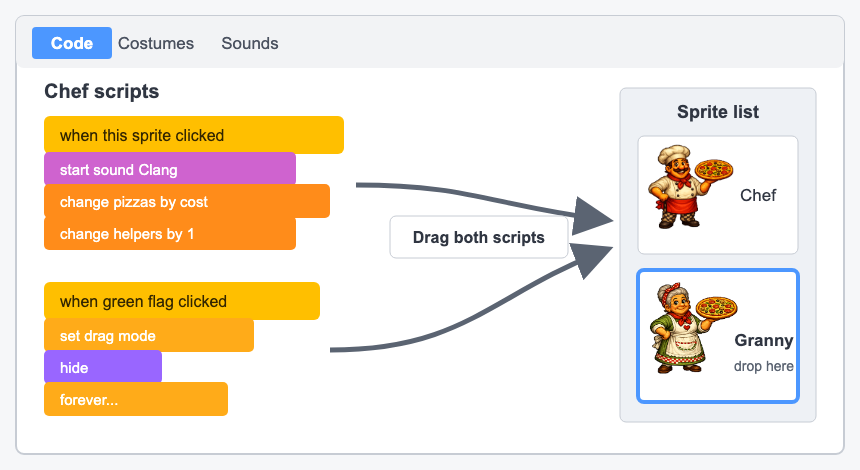
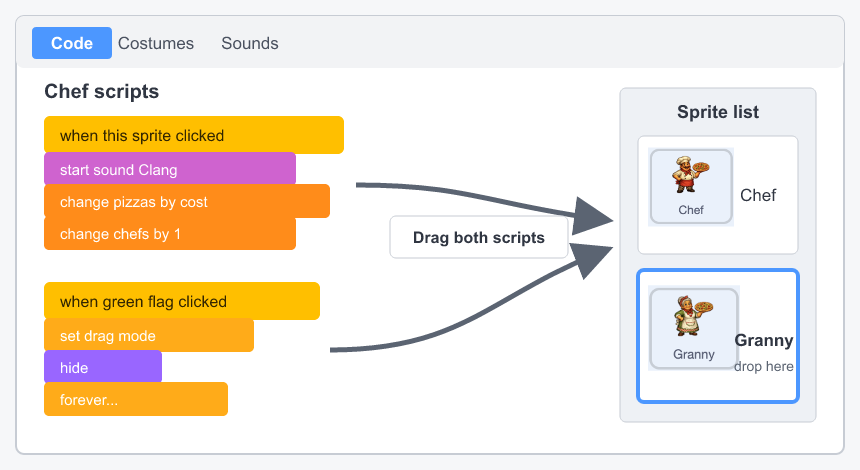
Align chef variables and slow equipment animation

diff --git a/en/step_17.md b/en/step_17.md
@@ -10,16 +10,16 @@ Let the player click the helper to hire one.
 
 Clicking the helper first checks the player can still afford it, then spends its current price and increases the number hired.
 
-The `change`{:class="block3variables"} block needs a negative number to spend pizzas. `0 - helper price` turns the price into that negative number.
+The `change`{:class="block3variables"} block needs a negative number to spend pizzas. `0 - chef price` turns the price into that negative number.
 
 The affordability check also stops rapid repeat clicks from pushing the score below zero while the sprite is waiting to hide.
 
 ```blocks3
 when this sprite clicked
-if <(pizzas) > ((helper price) - (1))> then
+if <(pizzas) > ((chef price) - (1))> then
 start sound (Clang v)
-change [pizzas v] by ((0) - (helper price))
-change [helpers v] by (1)
+change [pizzas v] by ((0) - (chef price))
+change [chefs v] by (1)
 end
 ```
 
@@ -29,11 +29,11 @@ Make the next helper cost about 15% more. `round`{:class="block3operators"} keep
 
 ```blocks3
 when this sprite clicked
-if <(pizzas) > ((helper price) - (1))> then
+if <(pizzas) > ((chef price) - (1))> then
 start sound (Clang v)
-change [pizzas v] by ((0) - (helper price))
-change [helpers v] by (1)
-+set [helper price v] to (round ((helper price) * (1.15)))
+change [pizzas v] by ((0) - (chef price))
+change [chefs v] by (1)
++set [chef price v] to (round ((chef price) * (1.15)))
 end
 ```
 
@@ -43,4 +43,4 @@ A **progression curve** controls how quickly a game gets harder, faster, or more
 
 ## Now run your code
 
-The first helper costs 50 pizzas. After buying it, `helpers`{:class="block3variables"} is `1` and `helper price`{:class="block3variables"} is `58`.
+The first helper costs 50 pizzas. After buying it, `chefs`{:class="block3variables"} is `1` and `chef price`{:class="block3variables"} is `58`.

diff --git a/en/step_16.md b/en/step_16.md
@@ -1,6 +1,6 @@
-## Make the helper variables
+## Make the chef variables
 
-The helper needs a few numbers to keep track of.
+The chef is your first type of helper. Give it its own count and price variables.
 
 <h2 class="c-project-heading--explainer">What you need to do</h2>
 
@@ -8,15 +8,15 @@ The helper needs a few numbers to keep track of.
 
 ## Step 1
 
-Make a variable called `helpers`{:class="block3variables"} for how many helpers the player has hired.
+Make a variable called `chefs`{:class="block3variables"} for how many chefs the player has hired.
 
-Make another called `helper price`{:class="block3variables"} for how many pizzas the next helper costs.
+Make another called `chef price`{:class="block3variables"} for how many pizzas the next chef costs.
 
 ## Step 2
 
 Make a variable called `pizzas per second`{:class="block3variables"} for how many pizzas all the helpers make during each second.
 
-Tick `helpers`{:class="block3variables"} and `pizzas per second`{:class="block3variables"} so the player can see them.
+Tick `chefs`{:class="block3variables"} and `pizzas per second`{:class="block3variables"} so the player can see them.
 
 ## Step 3
 
@@ -26,11 +26,11 @@ Click the `Stage`{:class="block3looks"} and give the variables starting values. 
 when green flag clicked
 set [pizzas v] to (0)
 set [pizzas per click v] to (1)
-+set [helpers v] to (0)
-+set [helper price v] to (50)
++set [chefs v] to (0)
++set [chef price v] to (50)
 +set [pizzas per second v] to (0)
 ```
 
 ## Now run your code
 
-Click the green flag. The new readouts show `helpers 0`, `helper price 50`, and `pizzas per second 0`.
+Click the green flag. The new readouts show `chefs 0`, `chef price 50`, and `pizzas per second 0`.

diff --git a/en/step_20.md b/en/step_20.md
@@ -10,11 +10,11 @@ Return to the helper sprite. Broadcast `update`{:class="block3events"} at the en
 
 ```blocks3
 when this sprite clicked
-if <(pizzas) > ((helper price) - (1))> then
+if <(pizzas) > ((chef price) - (1))> then
 start sound (Clang v)
-change [pizzas v] by ((0) - (helper price))
-change [helpers v] by (1)
-set [helper price v] to (round ((helper price) * (1.15)))
+change [pizzas v] by ((0) - (chef price))
+change [chefs v] by (1)
+set [chef price v] to (round ((chef price) * (1.15)))
 +broadcast (update v)
 end
 ```
@@ -27,8 +27,8 @@ On the `Stage`{:class="block3looks"}, replace the fixed `pizzas per second`{:cla
 when green flag clicked
 set [pizzas v] to (0)
 set [pizzas per click v] to (1)
-set [helpers v] to (0)
-set [helper price v] to (50)
+set [chefs v] to (0)
+set [chef price v] to (50)
 +update pizzas per second :: custom
 +forever
 wait (1) seconds

diff --git a/en/step_28.md b/en/step_28.md
@@ -8,19 +8,20 @@ Make the equipment wiggle so the shop feels alive.
 
 ## Step 1
 
-Add this script to your first piece of equipment. It rocks the sprite back and forth forever.
+Add this script to your first piece of equipment. The `point in direction`{:class="block3motion"} block starts it level each time you click the green flag, then it rocks back and forth forever.
 
 ```blocks3
 when green flag clicked
+point in direction (90)
 forever
 turn right (10) degrees
-wait (0.05) seconds
+wait (0.2) seconds
 turn left (10) degrees
-wait (0.05) seconds
+wait (0.2) seconds
 turn left (10) degrees
-wait (0.05) seconds
+wait (0.2) seconds
 turn right (10) degrees
-wait (0.05) seconds
+wait (0.2) seconds
 end
 ```
 

diff --git a/en/step_19.md b/en/step_19.md
@@ -12,13 +12,13 @@ Click the `Stage`{:class="block3looks"}.
 
 In `My Blocks`{:class="block3custom"}, click **Make a Block**, name it `update pizzas per second`{:class="block3custom"}, and build its definition.
 
-Each helper makes one pizza per second, so the rate is the same as `helpers`{:class="block3variables"}.
+Each chef makes one pizza per second, so the rate is the same as `chefs`{:class="block3variables"}.
 
 ![The Make a Block button in the My Blocks palette.](images/make-a-block.png)
 
 ```blocks3
 define update pizzas per second
-set [pizzas per second v] to (helpers)
+set [pizzas per second v] to (chefs)
 ```
 
 ## Step 2

diff --git a/en/step_25.md b/en/step_25.md
@@ -8,11 +8,11 @@ Make each granny add five pizzas per second, then test the complete helper syste
 
 On the `Stage`{:class="block3looks"}, update the `update pizzas per second`{:class="block3custom"} definition.
 
-The first helpers each add one pizza per second. Multiply only `grannies`{:class="block3variables"} by `5`.
+Chefs each add one pizza per second. Multiply only `grannies`{:class="block3variables"} by `5`.
 
 ```blocks3
 define update pizzas per second
-+set [pizzas per second v] to ((helpers) + ((grannies) * (5)))
++set [pizzas per second v] to ((chefs) + ((grannies) * (5)))
 ```
 
 ## Tip

diff --git a/en/step_18.md b/en/step_18.md
@@ -11,7 +11,7 @@ when green flag clicked
 set drag mode [not draggable v]
 hide
 forever
-if <(pizzas) > ((helper price) - (1))> then
+if <(pizzas) > ((chef price) - (1))> then
 show
 else
 hide
@@ -21,7 +21,7 @@ end
 
 ## Tip
 
-Scratch has no `greater than or equal to` block. Because the score uses whole numbers, checking for `pizzas > helper price - 1` does the same job.
+Scratch has no `greater than or equal to` block. Because the score uses whole numbers, checking for `pizzas > chef price - 1` does the same job.
 
 ## Now run your code
 

diff --git a/en/step_23.md b/en/step_23.md
@@ -14,8 +14,8 @@ The second helper starts at `100` pizzas because it works five times faster than
 when green flag clicked
 set [pizzas v] to (0)
 set [pizzas per click v] to (1)
-set [helpers v] to (0)
-set [helper price v] to (50)
+set [chefs v] to (0)
+set [chef price v] to (50)
 +set [grannies v] to (0)
 +set [granny price v] to (100)
 update pizzas per second :: custom

diff --git a/en/step_12.md b/en/step_12.md
@@ -18,7 +18,7 @@ Copy both cutter scripts onto the rolling pin by dragging each script onto the r
 
 --- no-print ---
 
-![Copying the cutter scripts onto the rolling pin and oven sprites.](images/copy-equipment-scripts.gif)
+![Dragging scripts from the code area onto another sprite to copy them.](images/copy-equipment-scripts.gif)
 
 --- /no-print ---
 
